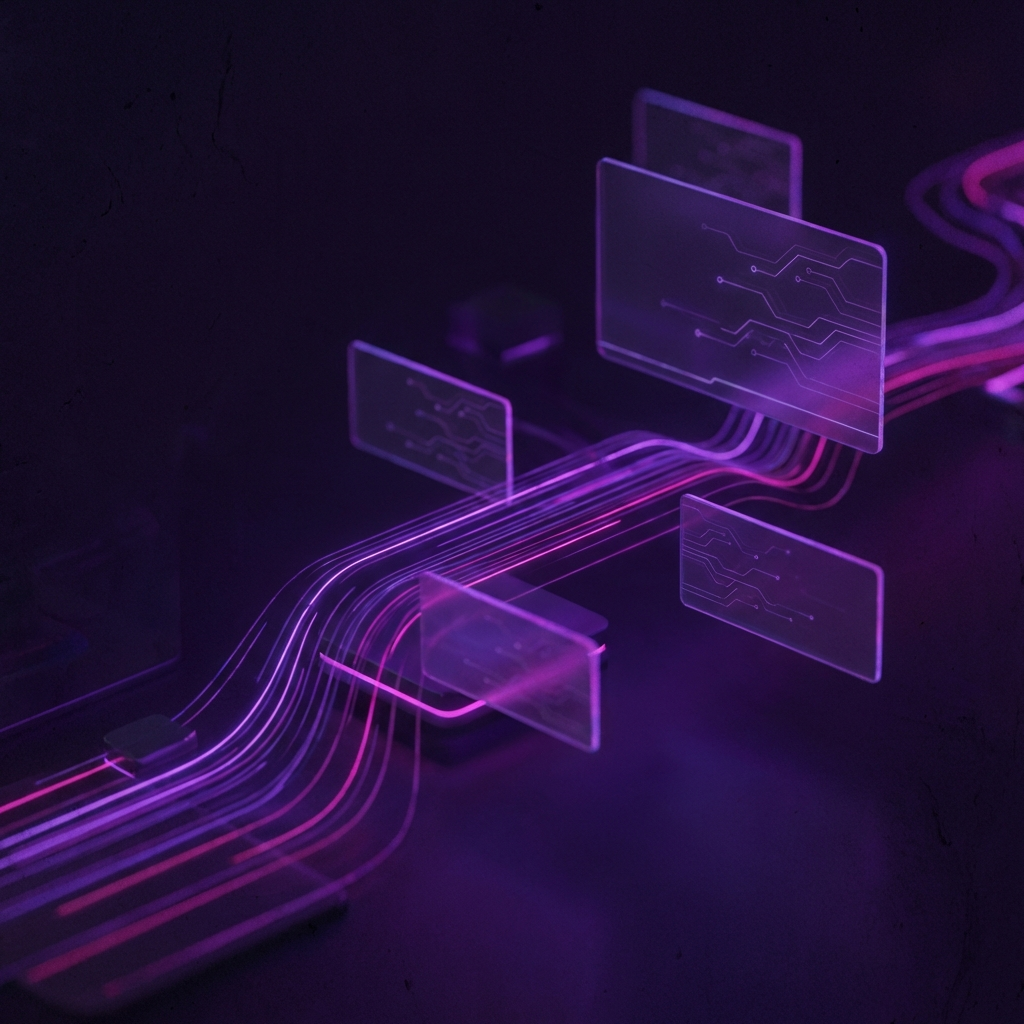
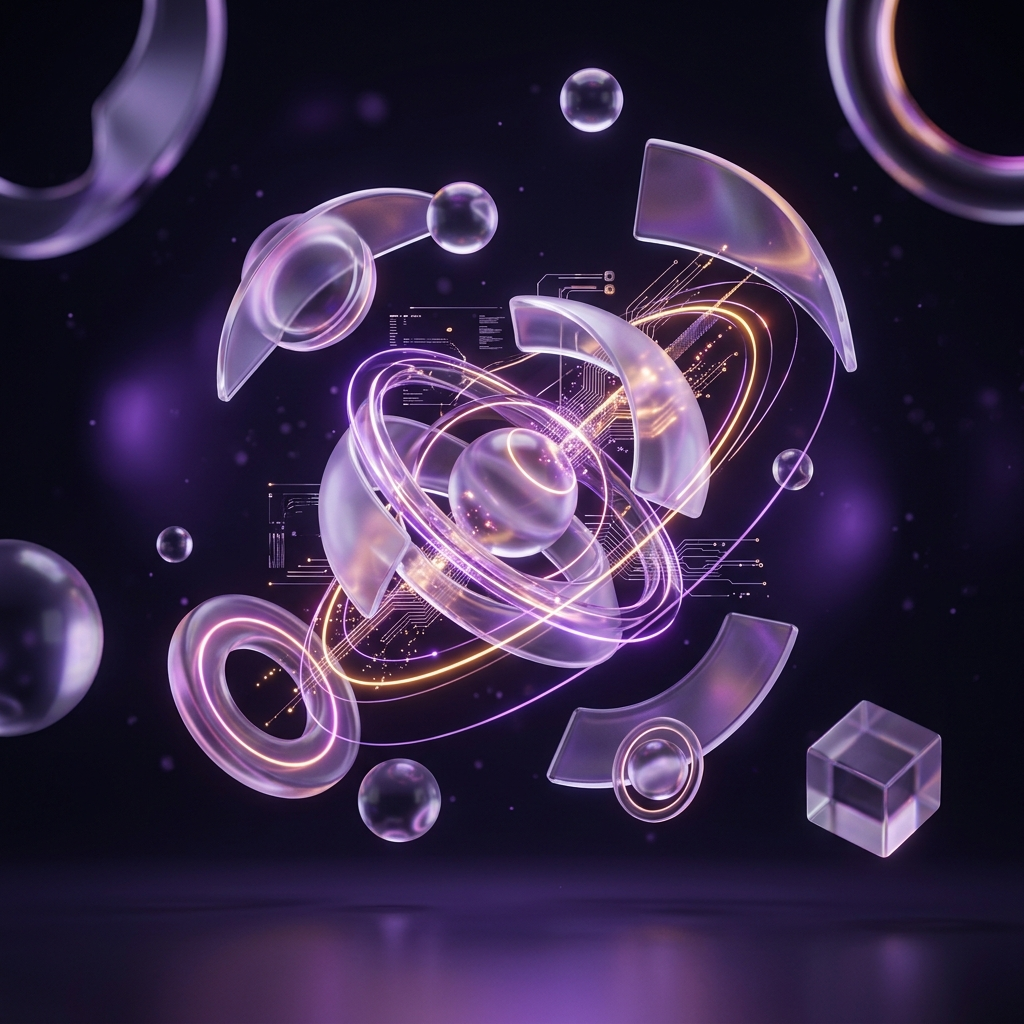
d

diff --git a/src/styles/Home.css b/src/styles/Home.css
@@ -45,7 +45,7 @@
 
 /* LEFT PANEL - SCHOOL */
 .panel-school {
-    background: linear-gradient(135deg, rgba(88, 28, 135, 0.8), rgba(236, 72, 153, 0.6)), url('https://images.unsplash.com/photo-1550751827-4bd374c3f58b?q=80&w=2670&auto=format&fit=crop');
+    background: linear-gradient(135deg, rgba(88, 28, 135, 0.35), rgba(236, 72, 153, 0.25)), url('../assets/school-card-bg.png');
     clip-path: polygon(0 0, 100% 0, 85% 100%, 0% 100%);
     margin-right: -10%;
     /* Overlap for the diagonal cut */
@@ -55,7 +55,7 @@
 
 /* RIGHT PANEL - CONSEIL */
 .panel-conseil {
-    background: linear-gradient(135deg, rgba(30, 58, 138, 0.8), rgba(59, 130, 246, 0.6)), url('https://images.unsplash.com/photo-1451187580459-43490279c0fa?q=80&w=2672&auto=format&fit=crop');
+    background: linear-gradient(135deg, rgba(30, 58, 138, 0.35), rgba(59, 130, 246, 0.25)), url('../assets/conseil-card-bg.png');
     clip-path: polygon(15% 0, 100% 0, 100% 100%, 0% 100%);
     margin-left: -5%;
     /* Pull back to meet the left panel */
